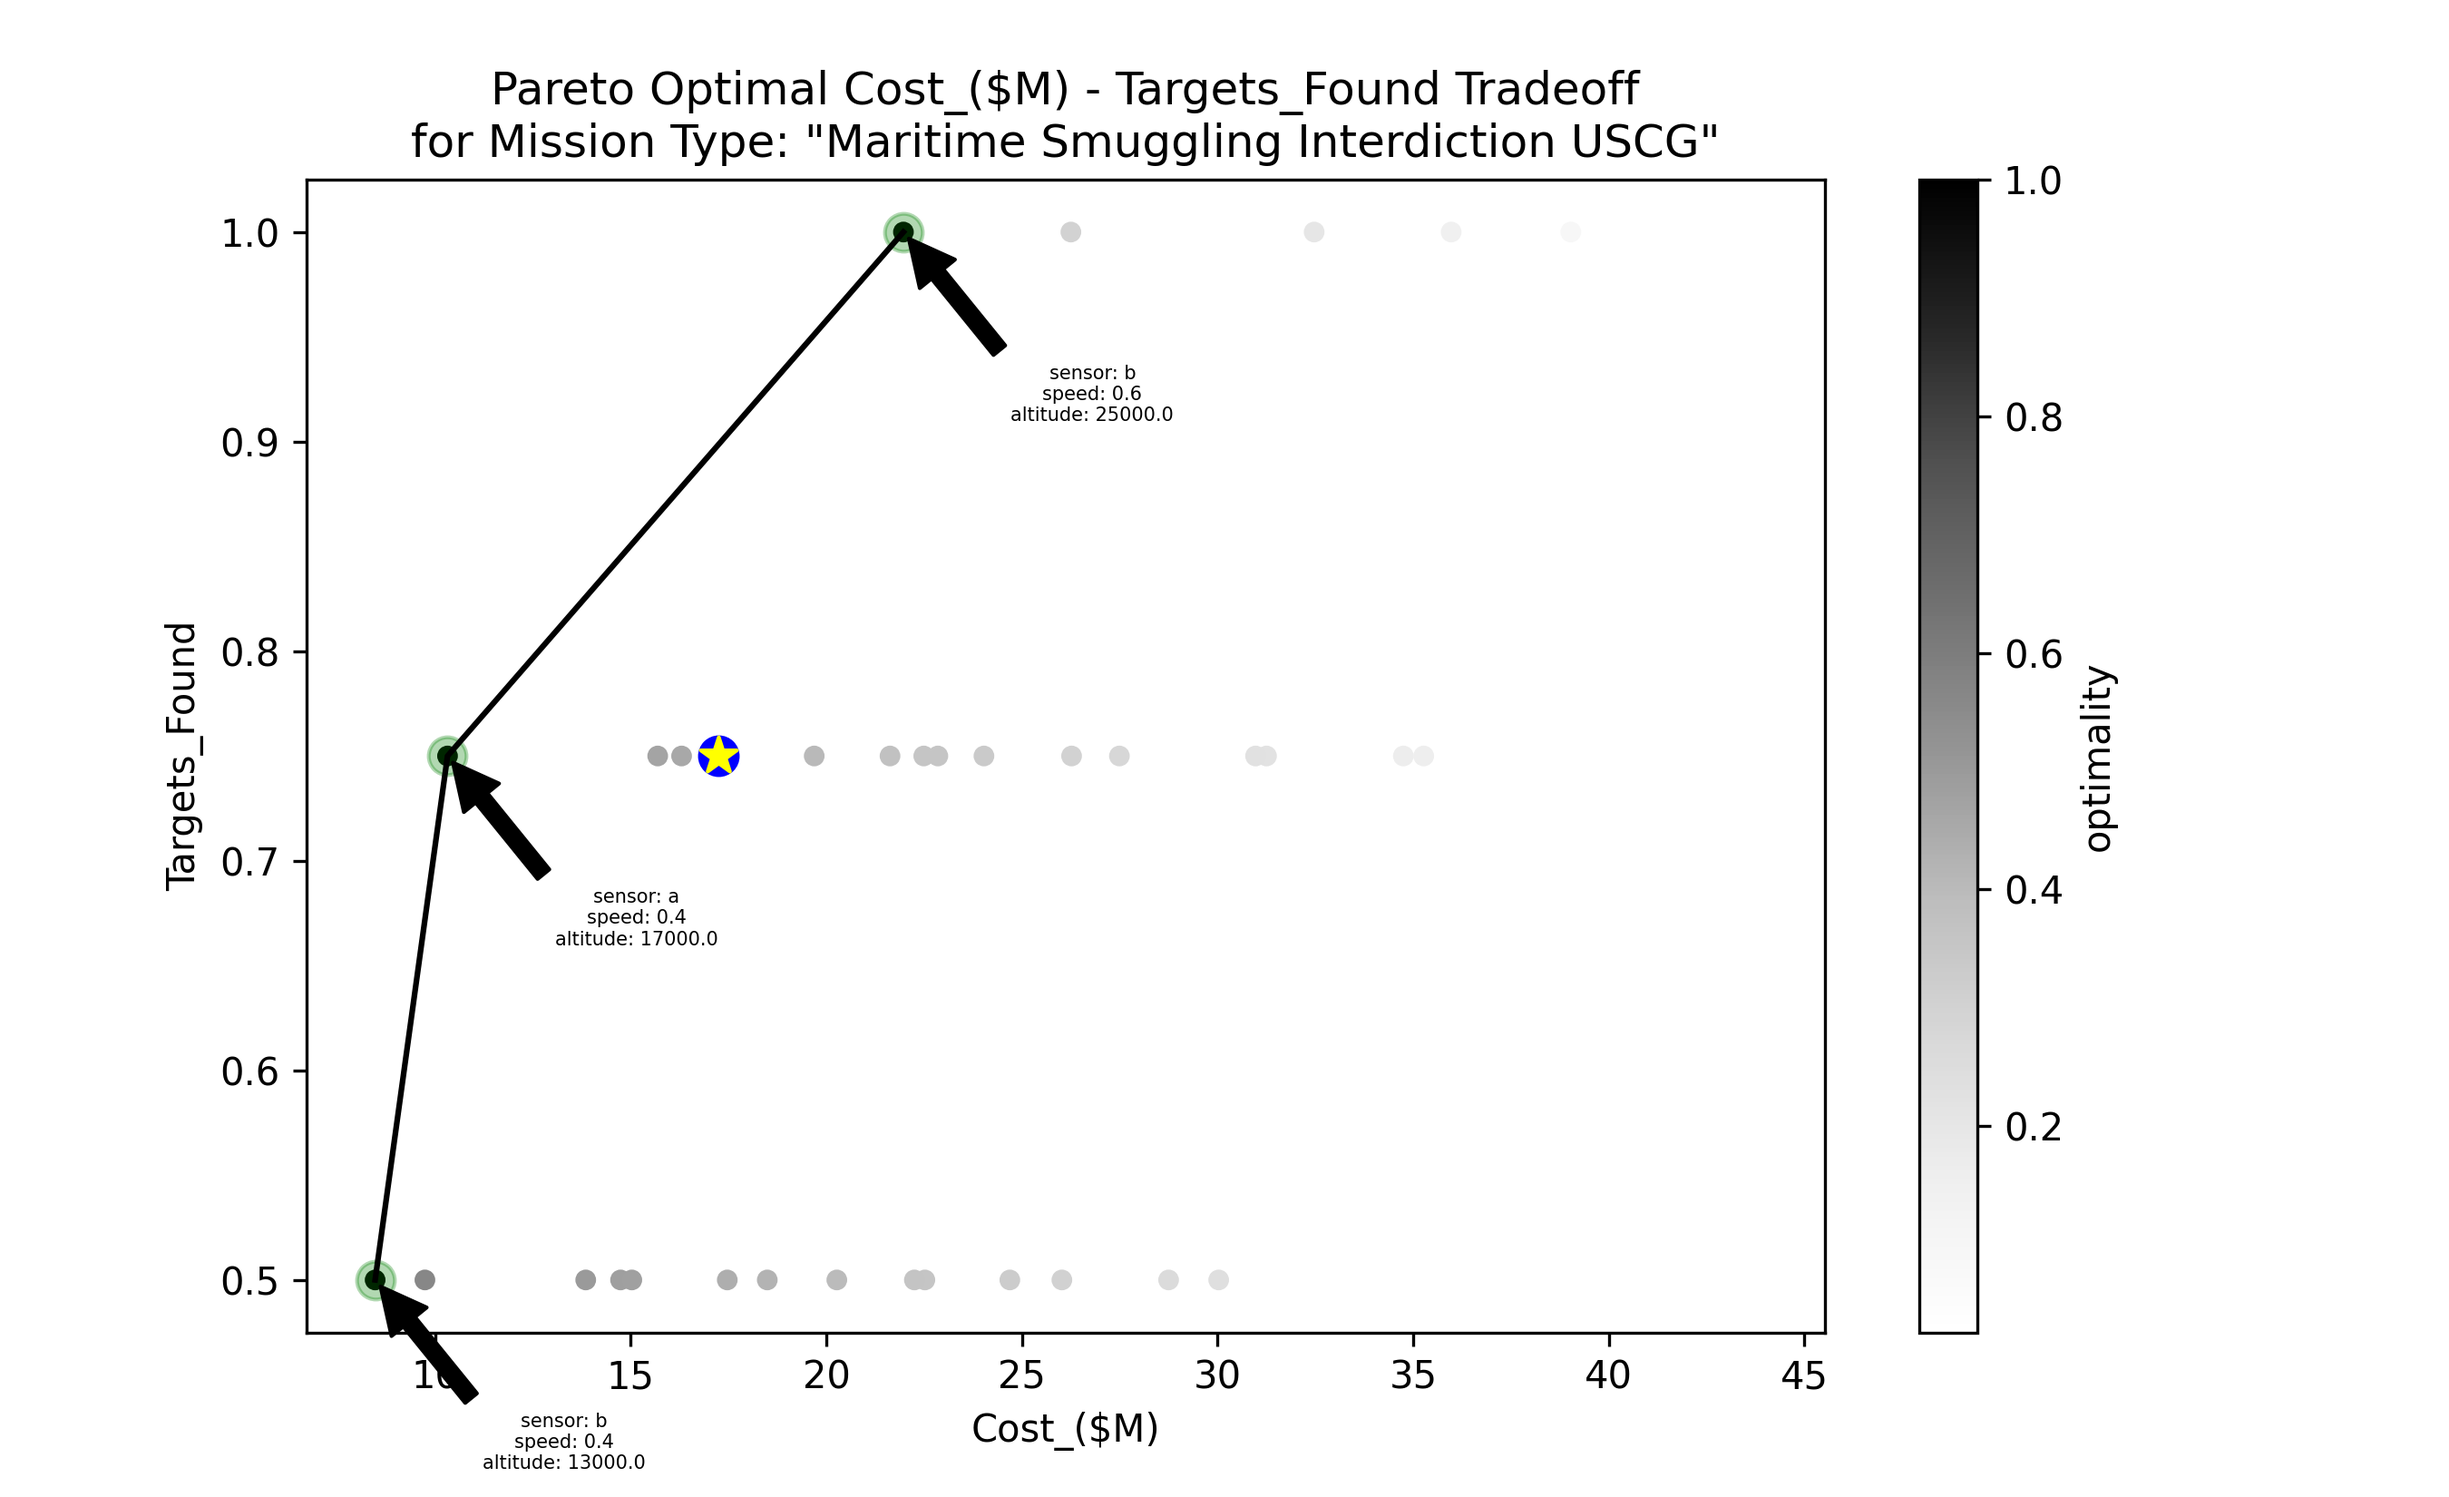
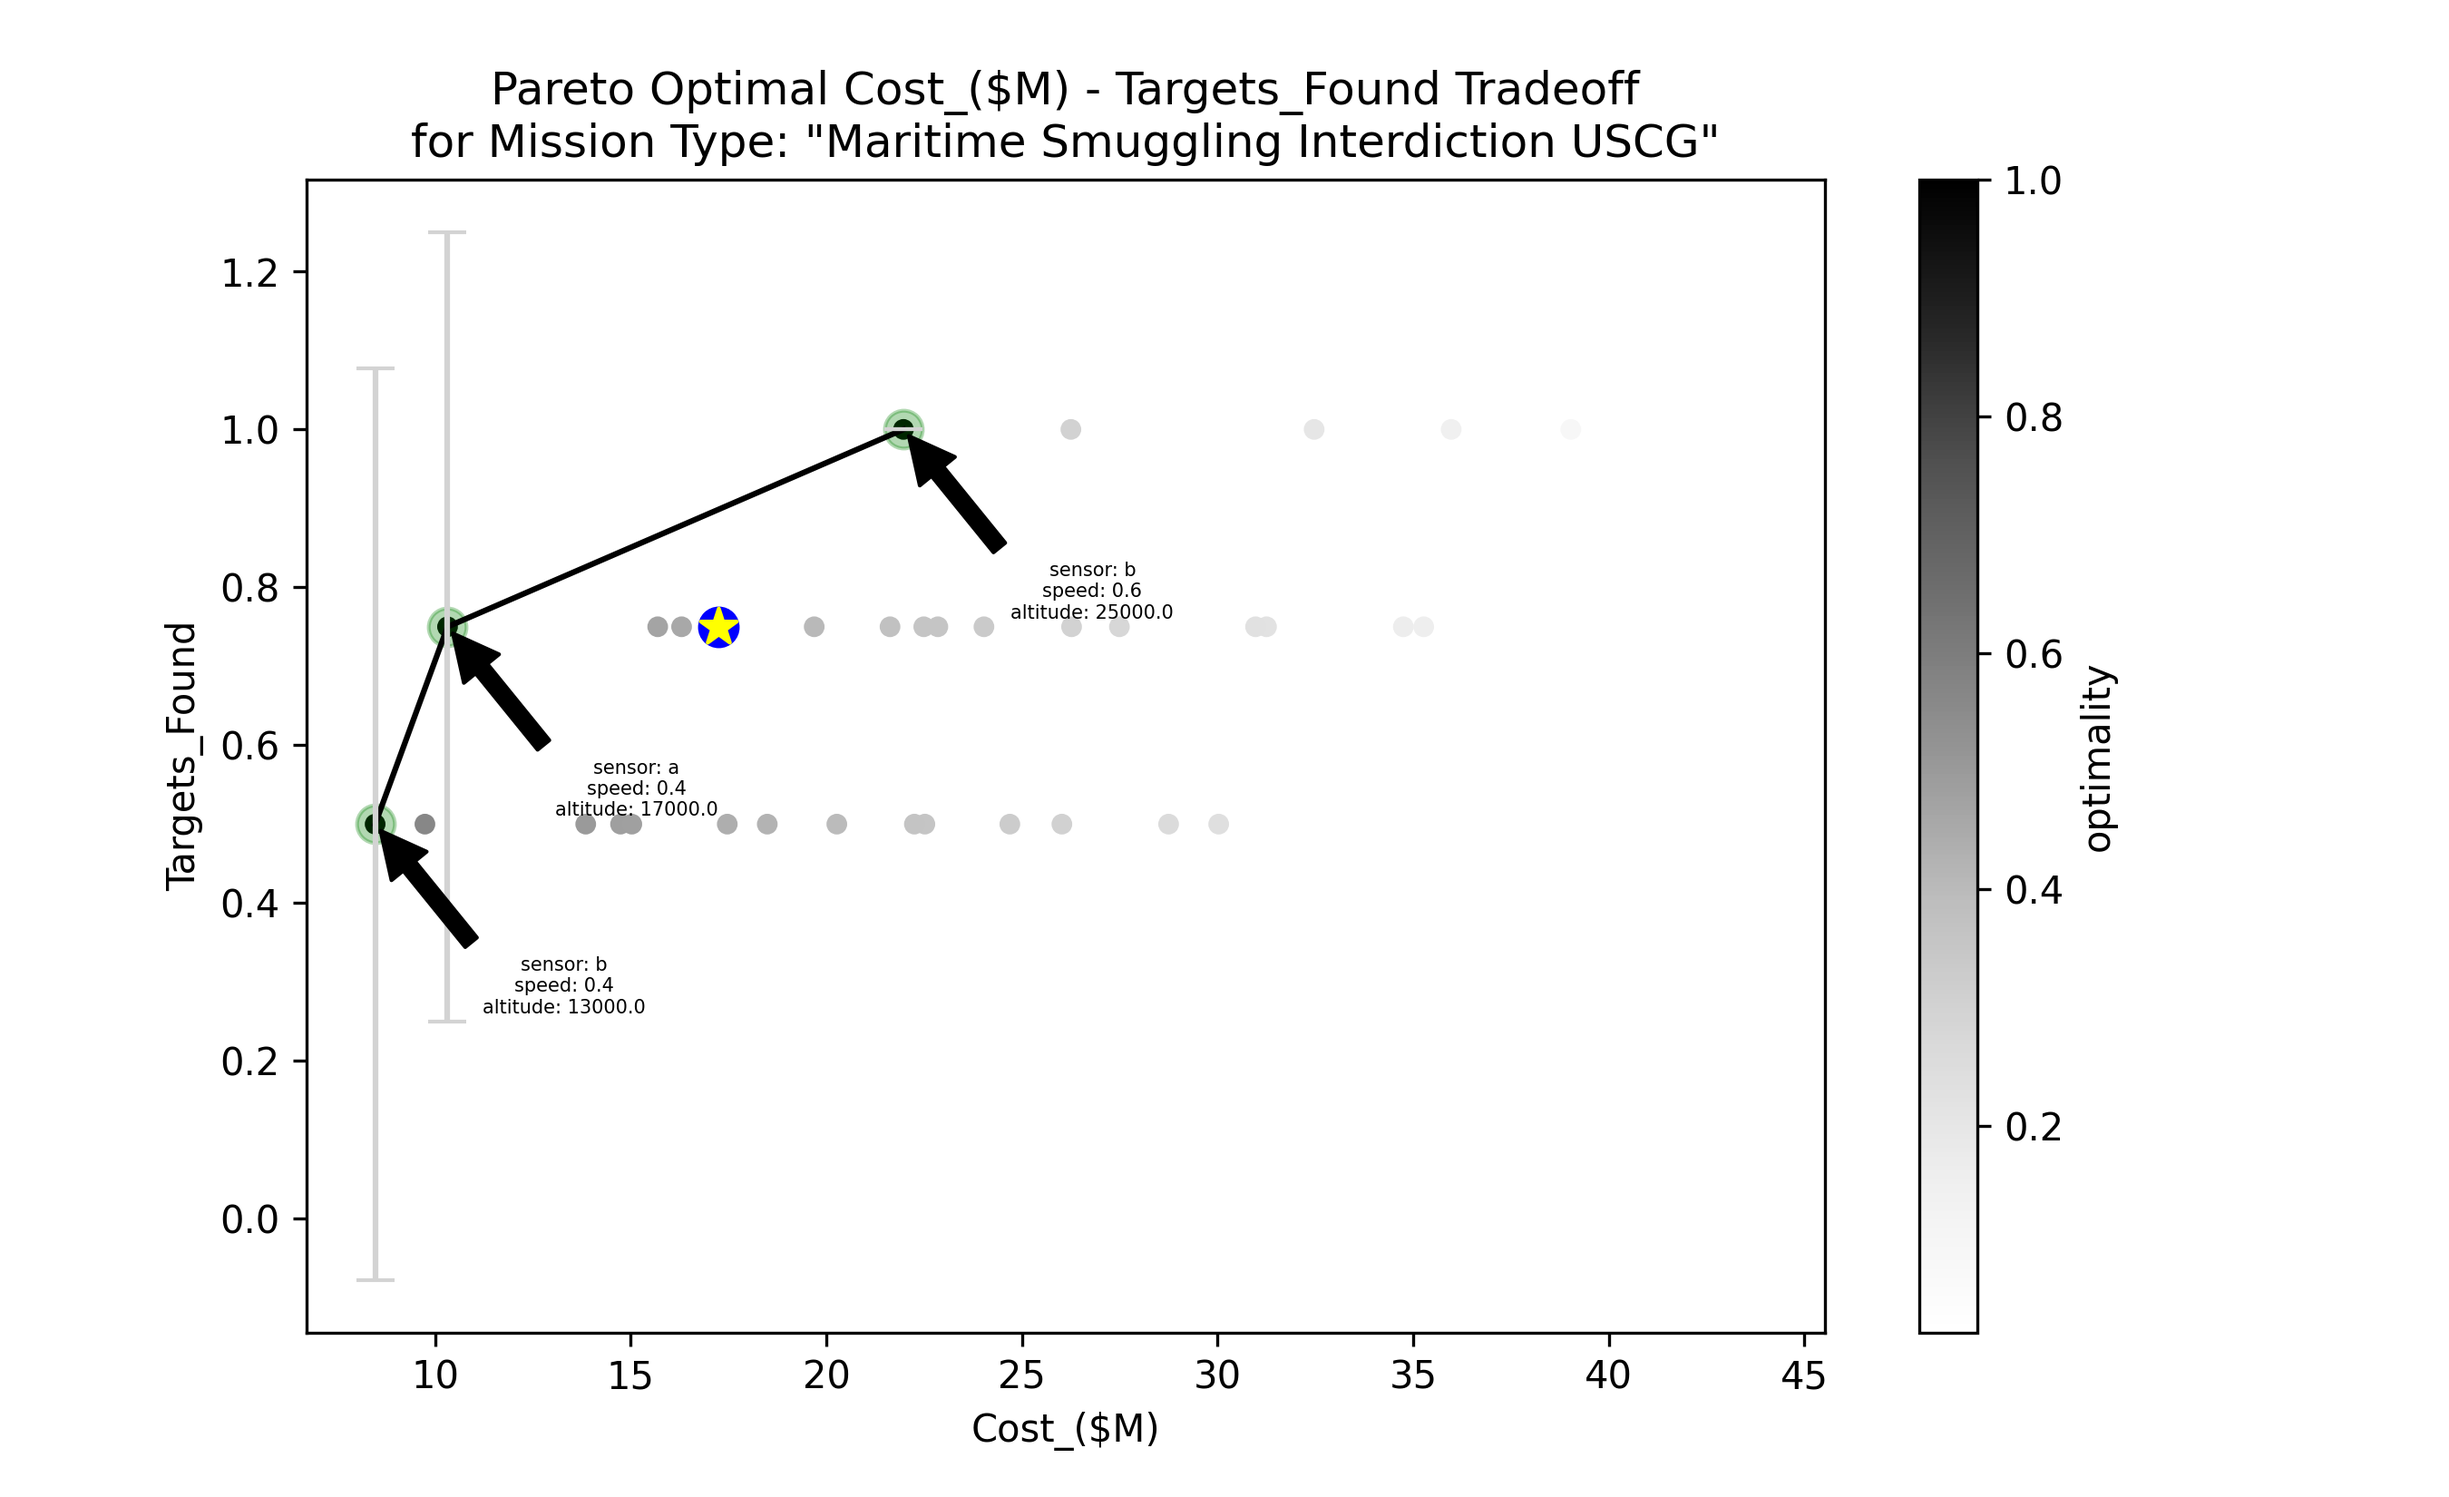
plots with error bars

diff --git a/src/analysis.py b/src/analysis.py
@@ -47,10 +47,14 @@ def plot_score_cost_tradeoff(df, x, y):
     for point in optimal_df.index:
         x_loc = optimal_df.loc[point, x]
         y_loc = optimal_df.loc[point, y]
+        err = info_df.loc[point, 'total_std']
         speed_data = info_df.loc[point, 'speed']
         alt_data = info_df.loc[point, 'altitude']
         sensor_data = get_sensor_type(info_df.loc[point, 'sensor'])
         text = f'sensor: {sensor_data}\nspeed: {speed_data:.1f}\naltitude: {alt_data:.1f}'
+
+        plt.errorbar(x=y_loc, y=x_loc, yerr=err, color='lightgray', capsize=5)
+
         plt.annotate(text, (y_loc, x_loc), textcoords="offset points", xytext=text_offsets, ha='center',
                      arrowprops=dict(facecolor='black', shrink=0.05),
                      fontsize=5,
@@ -103,6 +107,10 @@ def plot_pareto_points(df, x, y, cutoff):
     for point in optimal_df.index:
         x_loc = optimal_df.loc[point, x]
         y_loc = optimal_df.loc[point, y]
+        err = info_df.loc[point, f'{x}_std']
+
+        plt.errorbar(y_loc, x_loc, yerr=err, color='lightgray', capsize=5)
+
         speed_data = info_df.loc[point, 'speed']
         alt_data = info_df.loc[point, 'altitude']
         sensor_data = get_sensor_type(info_df.loc[point, 'sensor'])
@@ -127,37 +135,47 @@ def aggregate_over_treatment(df) -> pd.DataFrame:
     '''
     '''
 
-    df = df.groupby(by='treatment').mean()
-    df.index = df.index.astype(int)
-    return df
+    mean_df = df.groupby(by='treatment').mean()
+    mean_df.index = mean_df.index.astype(int)
+
+    std_df = df.groupby(by='treatment').std()
+    std_df.index = std_df.index.astype(int)
+
+    mean_df['Time_to_Detect_hrs_std'] = std_df['Time_to_Detect_hrs']
+    mean_df['Targets_Found_std'] = std_df['Targets_Found']
+    return mean_df
 
 def score_df(df):
     scores = [10, 10, 80]
     df.fillna(20, inplace=True)
     df['score_constant'] = [scores[int(mission)] for mission in df['mission_type']]
     df['score_val'] = 0
+    df['score_std'] = 0
     counter = 0
     for row in df.itertuples():
         '''
-        8: found time
-        10: mission type
-        11: qty
         '''
         if row.mission_type == 0:
             score = (20.0 - row.Time_to_Detect_hrs) / 20.0
+            var = (20.0 - row.Time_to_Detect_hrs_std) / 20.0
         elif row.mission_type == 1:
             score = row.Targets_Found / 1.0
+            var = row.Targets_Found_std / 1.0
         else:
             score = row.Targets_Found / 10.0
+            var = row.Targets_Found_std / 10.0
         
         df.loc[counter, 'score_val'] = score
+        df.loc[counter, 'score_std'] += var
         counter += 1
 
     df['total_score'] = df['score_val'] * df['score_constant']
+    df['total_std'] = df['score_std'] * df['score_constant']
 
     df['tag'] = [f'{sensor}_{speed}_{alt}' for sensor, alt, speed in zip(df['sensor'], df['speed'], df['altitude'])]
 
     df = df.groupby(by='tag').sum()
+    df['total_std'] = np.sqrt(df['total_std'])
 
     df.sort_values(by='total_score', inplace=True, ascending=False)
     return df
